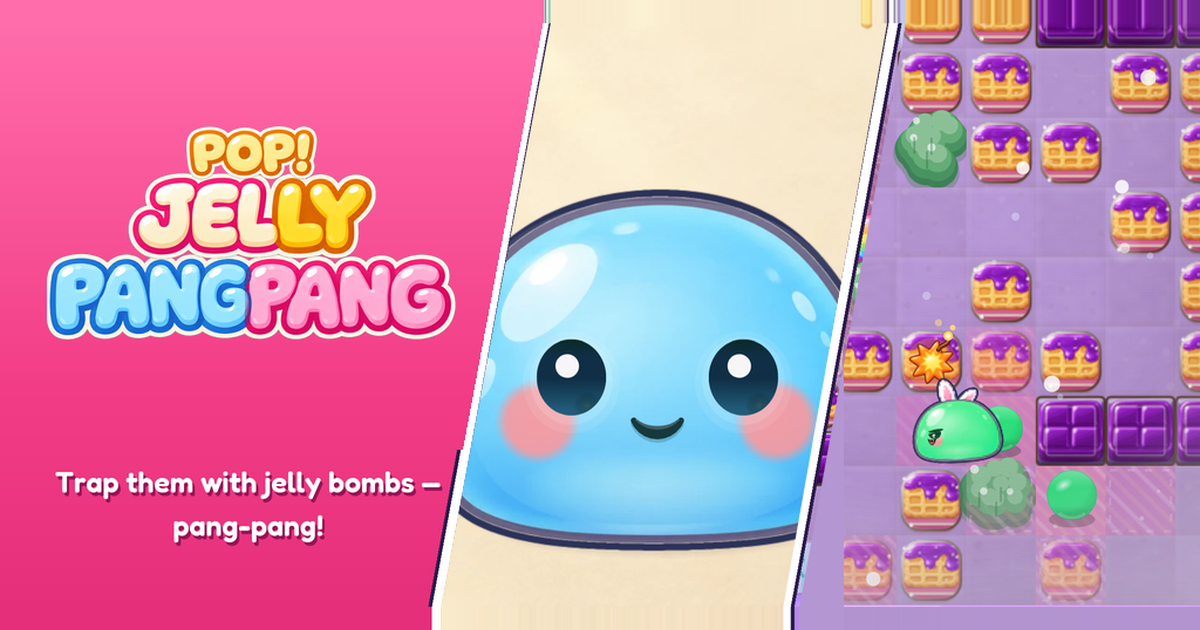
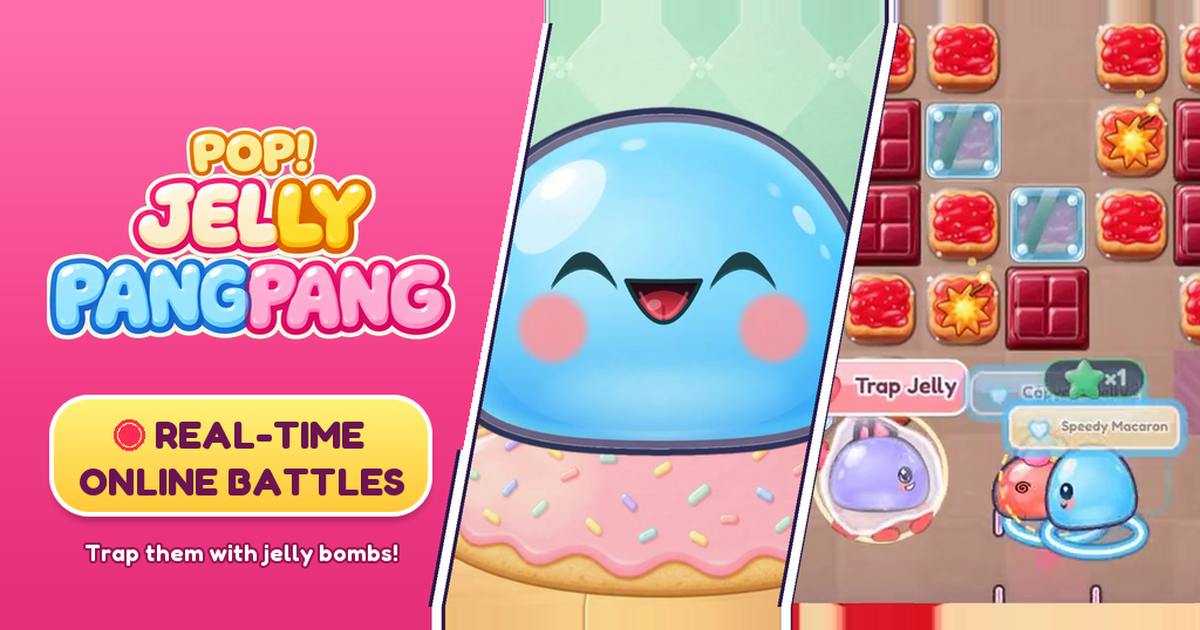
Link preview image: real-time online battles band (og3.png, og/og2 updated too)

diff --git a/index.html b/index.html
@@ -14,14 +14,14 @@
 <meta property="og:site_name" content="Pop! Jelly PangPang">
 <meta property="og:title" content="Pop! Jelly PangPang · 터져라! 젤리팡팡">
 <meta property="og:description" content="Real-time online battles for up to 6: 3v3 teams or free-for-all! Trap them with jelly bombs — pang-pang! Map maker and 12 Challenge Letters. No ads. No gacha.">
-<meta property="og:image" content="https://jellypangpang1231.github.io/og2.png">
+<meta property="og:image" content="https://jellypangpang1231.github.io/og3.png">
 <meta property="og:image:width" content="1200">
 <meta property="og:image:height" content="630">
 <meta property="og:image:alt" content="Pop! Jelly PangPang: the game logo, a smiling blue jelly and a candy game board, with the words Trap them with jelly bombs — pang-pang!">
 <meta property="og:url" content="https://jellypangpang1231.github.io/">
 <meta name="twitter:card" content="summary_large_image">
 <meta name="twitter:site" content="@jelly_pang_pang">
-<meta name="twitter:image" content="https://jellypangpang1231.github.io/og2.png">
+<meta name="twitter:image" content="https://jellypangpang1231.github.io/og3.png">
 <script>
 /* 언어를 본문보다 먼저 정한다. 우리가 번역해 둔 언어로 보여 줄 때는 브라우저 자동 번역을 막는다 —
    크롬이 영어 원문 기준으로 '항상 번역'을 걸어 두면, 우리가 넣은 번역문을 한 번 더 번역해 문구가 망가진다(2026-10-01 실기).

diff --git a/go/index.html b/go/index.html
@@ -7,7 +7,7 @@
 <meta name="apple-itunes-app" content="app-id=6817233245">
 <title>Pop! Jelly PangPang</title>
 <meta property="og:title" content="Pop! Jelly PangPang">
-<meta property="og:image" content="https://jellypangpang1231.github.io/og.png">
+<meta property="og:image" content="https://jellypangpang1231.github.io/og3.png">
 <link rel="icon" href="../favicon.ico?v=1113i">
 <!-- C-1530 게임 QR 이 여는 안내 쪽(방 초대 ?r=, 맵 공유 ?m=). 앱이 깔린 폰은 앱 링크로 이 쪽을 건너뛴다. 11-14 요청 「이 안내 팝업 퀄리티가 되게 낮고 … 다 최신화하거나 랜딩페이지로 연결하거나 해라」 → 랜딩 본 페이지 아트풍으로 새로 꾸밈(시안 A) · 시안 B 는 코드를 복사하고 랜딩으로 넘김 -->
 <style>

diff --git a/get/index.html b/get/index.html
@@ -6,7 +6,7 @@
 <meta name="robots" content="noindex">
 <title>Pop! Jelly PangPang</title>
 <meta property="og:title" content="Pop! Jelly PangPang">
-<meta property="og:image" content="https://jellypangpang1231.github.io/og2.png">
+<meta property="og:image" content="https://jellypangpang1231.github.io/og3.png">
 <link rel="icon" href="../favicon.ico?v=1113i">
 <!-- C-1908 설치 주소: QR 과 소개 링크가 여는 곳. 아이폰·아이패드는 App Store, 안드로이드는 Google Play, 그 밖(PC)은 홈페이지 첫 화면으로 보낸다.
      ?s= 꼬리표는 홈페이지와 같은 방식으로 스토어에 넘긴다. 앱 안 브라우저(카카오톡·인스타·유튜브 등)에서도 열리게 안드로이드는 마켓 intent 를 쓴다.
